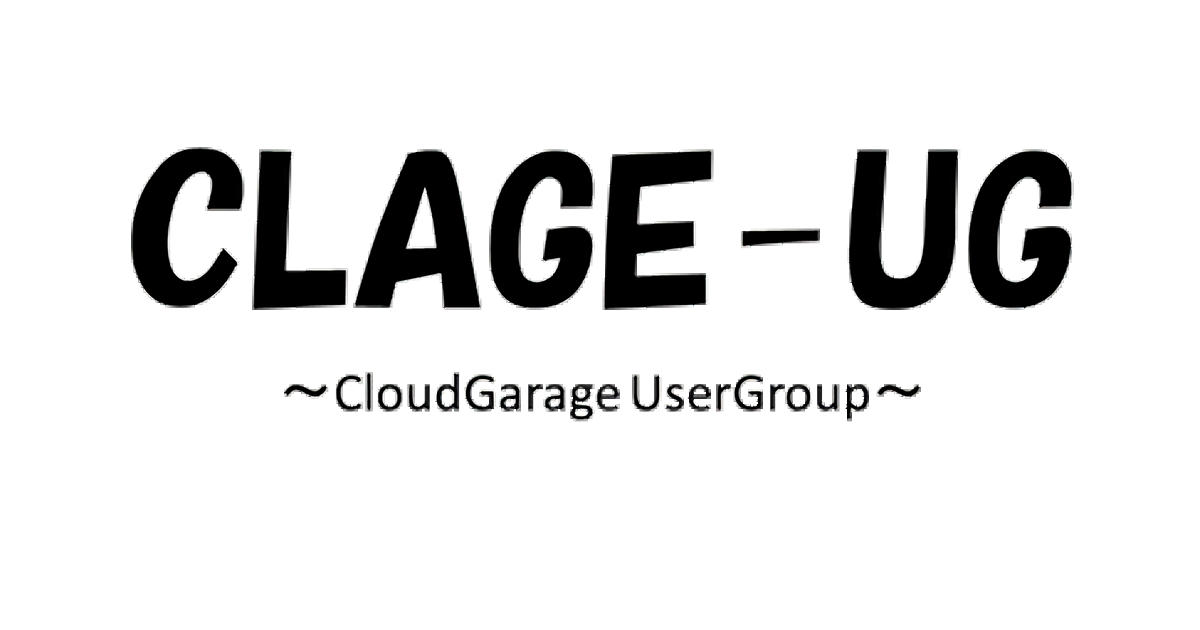
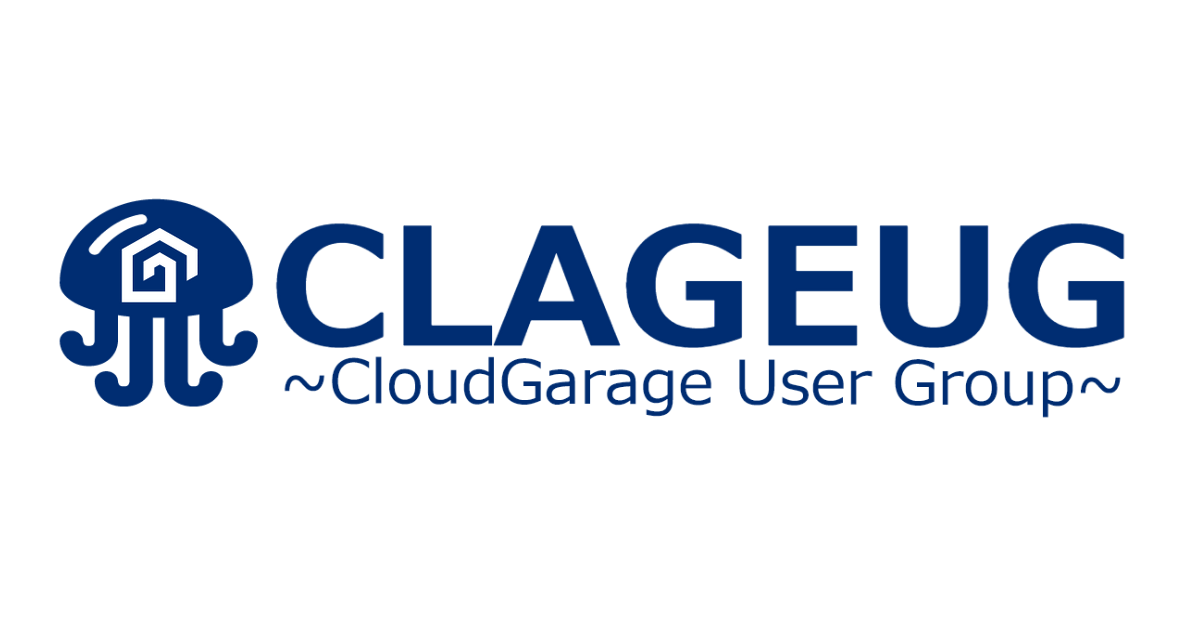
test ロゴイメージのdraft版適用

Changed region(s): [[0.0308, 0.2111, 0.9558, 0.6635]]

diff --git a/conf.py b/conf.py
@@ -140,12 +140,12 @@ html_short_title = project
 # The name of an image file (relative to this directory) to place at the top
 # of the sidebar.
 #html_logo =
-html_logo = '_static/images/logo.png'
+html_logo = '_static/images/logo-white.svg'
 
 # The name of an image file (within the static path) to use as favicon of the
 # docs.  This file should be a Windows icon file (.ico) being 16x16 or 32x32
 # pixels large.
-#html_favicon = None
+html_favicon = '_static/images/favicon.ico'
 
 # Add any paths that contain custom static files (such as style sheets) here,
 # relative to this directory. They are copied after the builtin static files,

diff --git a/_ext/ogtag.py b/_ext/ogtag.py
@@ -43,7 +43,7 @@ class Visitor:
 
     def get_og_image_url(self, page_url):
         # TODO: 必ず最初の画像で良いのか
-        return urljoin(page_url, '_static/images/banner.png')
+        return urljoin(page_url, '_static/images/logo-white.svg')
 
 def get_og_tags(context, doctree, config):
     # page_url
